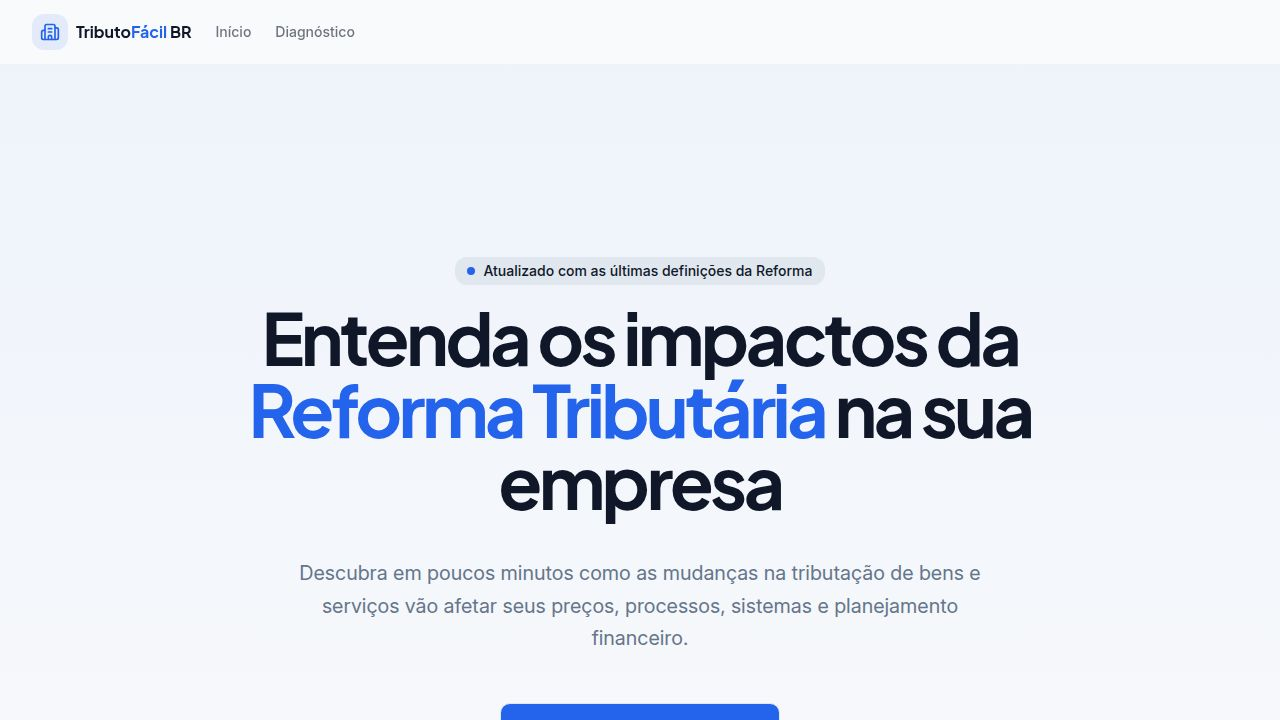
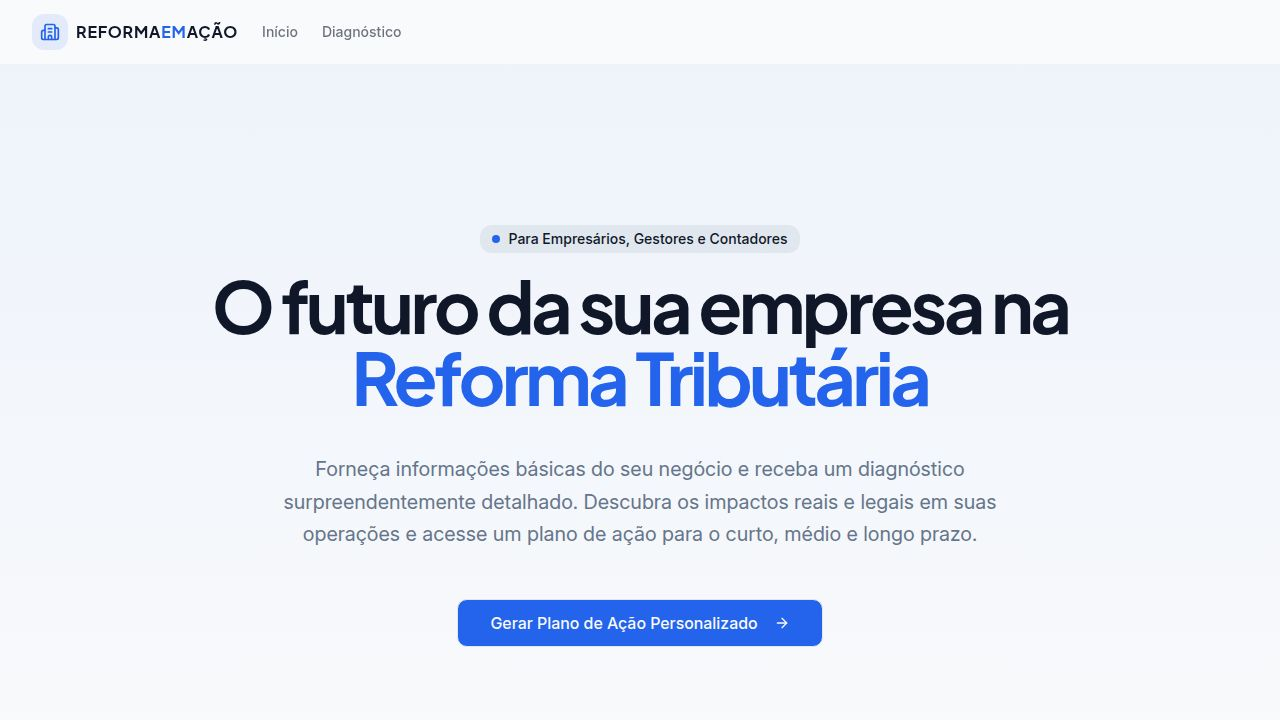
Update application name and refine tax reform assessment flow
Update the application name to "REFORMA EM AÇÃO" and enhance the assessment process by adding new data fields for company name, CNPJ, purchase profile, and sales states. The assessment flow is now six steps, and the legal basis for the analysis (EC 132/2023, LC 214/2025, LC 227/2026) is explicitly referenced.

Replit-Commit-Author: Agent
Replit-Commit-Session-Id: 5383b47c-9c6a-4d67-873b-61e5614a0c33
Replit-Commit-Checkpoint-Type: full_checkpoint
Replit-Commit-Event-Id: 20b1e04d-d2a4-4c61-b60b-d06e72ed1b43
Replit-Commit-Screenshot-Url: https://storage.googleapis.com/screenshot-production-us-central1/db2d43fd-bacb-4ad2-a4f2-7593c90496de/5383b47c-9c6a-4d67-873b-61e5614a0c33/4PuKHKl
Replit-Helium-Checkpoint-Created: true

diff --git a/client/src/pages/Assessment.tsx b/client/src/pages/Assessment.tsx
@@ -12,18 +12,22 @@ export default function Assessment() {
   const [, setLocation] = useLocation();
   const [step, setStep] = useState(1);
   const [formData, setFormData] = useState({
+    companyName: "",
+    cnpj: "",
     sector: "",
     regime: "",
     operations: "",
+    purchaseProfile: "",
+    salesStates: [],
     costStructure: "",
   });
 
-  const updateForm = (key: string, value: string) => {
+  const updateForm = (key: string, value: any) => {
     setFormData((prev) => ({ ...prev, [key]: value }));
   };
 
   const handleNext = () => {
-    if (step < 5) {
+    if (step < 6) {
       setStep(step + 1);
     } else {
       setLocation("/dashboard");
@@ -41,13 +45,13 @@ export default function Assessment() {
       <div className="container max-w-screen-md mx-auto py-12 px-4 md:px-6">
         <div className="mb-8">
           <div className="flex items-center justify-between mb-4">
-            <h1 className="text-3xl font-bold font-heading text-foreground">Perfil da Empresa</h1>
-            <span className="text-sm font-medium text-muted-foreground">Passo {step} de 5</span>
+            <h1 className="text-3xl font-bold font-heading text-foreground uppercase tracking-tight">REFORMA EM AÇÃO</h1>
+            <span className="text-sm font-medium text-muted-foreground">Passo {step} de 6</span>
           </div>
           <div className="w-full bg-secondary h-2 rounded-full overflow-hidden">
             <div 
               className="bg-primary h-full transition-all duration-300 ease-in-out" 
-              style={{ width: `${(step / 5) * 100}%` }}
+              style={{ width: `${(step / 6) * 100}%` }}
             />
           </div>
         </div>
@@ -56,38 +60,71 @@ export default function Assessment() {
           <CardHeader>
             {step === 1 && (
               <>
-                <CardTitle className="text-xl">Setor Econômico</CardTitle>
-                <CardDescription>A reforma impacta de forma radicalmente diferente cada setor. Qual é o seu?</CardDescription>
+                <CardTitle className="text-xl">Dados da Empresa</CardTitle>
+                <CardDescription>Identifique seu negócio para um plano personalizado.</CardDescription>
               </>
             )}
             {step === 2 && (
               <>
-                <CardTitle className="text-xl">Regime Tributário</CardTitle>
-                <CardDescription>O regime atual dita o ponto de partida da sua transição.</CardDescription>
+                <CardTitle className="text-xl">Setor Econômico</CardTitle>
+                <CardDescription>A reforma impacta de forma radicalmente diferente cada setor. Qual é o seu?</CardDescription>
               </>
             )}
             {step === 3 && (
               <>
-                <CardTitle className="text-xl">Perfil de Clientes</CardTitle>
-                <CardDescription>A forma como você precifica dependerá de quem compra de você.</CardDescription>
+                <CardTitle className="text-xl">Regime e Compras</CardTitle>
+                <CardDescription>A origem das suas mercadorias define seus créditos de IBS/CBS.</CardDescription>
               </>
             )}
             {step === 4 && (
               <>
-                <CardTitle className="text-xl">Estrutura de Custos & Compras</CardTitle>
-                <CardDescription>Isso define sua capacidade de gerar e utilizar novos créditos tributários.</CardDescription>
+                <CardTitle className="text-xl">Abrangência Geográfica</CardTitle>
+                <CardDescription>Para quais estados você vende ou presta serviços?</CardDescription>
               </>
             )}
             {step === 5 && (
               <>
-                <CardTitle className="text-xl">Analisando Cenários...</CardTitle>
-                <CardDescription>Estamos cruzando seus dados com as regras do novo IBS e CBS.</CardDescription>
+                <CardTitle className="text-xl">Perfil de Clientes & Custos</CardTitle>
+                <CardDescription>Defina sua estratégia de precificação e tomada de crédito.</CardDescription>
+              </>
+            )}
+            {step === 6 && (
+              <>
+                <CardTitle className="text-xl">Analisando Cenários Jurídicos...</CardTitle>
+                <CardDescription>Cruzando dados com a EC 132/23, LC 214/25, LC 227/26 e Notas Técnicas da RFB.</CardDescription>
               </>
             )}
           </CardHeader>
           
-          <CardContent className="min-h-[350px]">
+          <CardContent className="min-h-[380px]">
             {step === 1 && (
+              <div className="space-y-6 animate-in fade-in slide-in-from-bottom-4">
+                <div className="space-y-4">
+                  <div className="grid gap-2">
+                    <Label htmlFor="companyName">Nome da Empresa</Label>
+                    <input 
+                      id="companyName"
+                      className="flex h-10 w-full rounded-md border border-input bg-background px-3 py-2 text-sm ring-offset-background file:border-0 file:bg-transparent file:text-sm file:font-medium placeholder:text-muted-foreground focus-visible:outline-none focus-visible:ring-2 focus-visible:ring-ring focus-visible:ring-offset-2 disabled:cursor-not-allowed disabled:opacity-50"
+                      placeholder="Ex: Minha Empresa LTDA"
+                      value={formData.companyName}
+                      onChange={(e) => updateForm("companyName", e.target.value)}
+                    />
+                  </div>
+                  <div className="grid gap-2">
+                    <Label htmlFor="cnpj">CNPJ (Opcional)</Label>
+                    <input 
+                      id="cnpj"
+                      className="flex h-10 w-full rounded-md border border-input bg-background px-3 py-2 text-sm ring-offset-background file:border-0 file:bg-transparent file:text-sm file:font-medium placeholder:text-muted-foreground focus-visible:outline-none focus-visible:ring-2 focus-visible:ring-ring focus-visible:ring-offset-2 disabled:cursor-not-allowed disabled:opacity-50"
+                      placeholder="00.000.000/0000-00"
+                      value={formData.cnpj}
+                      onChange={(e) => updateForm("cnpj", e.target.value)}
+                    />
+                  </div>
+                </div>
+              </div>
+            )}
+
+            {step === 2 && (
               <div className="space-y-6 animate-in fade-in slide-in-from-bottom-4">
                 <RadioGroup 
                   value={formData.sector} 
@@ -117,67 +154,39 @@ export default function Assessment() {
               </div>
             )}
 
-            {step === 2 && (
-              <div className="space-y-6 animate-in fade-in slide-in-from-bottom-4">
-                <RadioGroup 
-                  value={formData.regime} 
-                  onValueChange={(val) => updateForm("regime", val)}
-                  className="flex flex-col space-y-3"
-                >
-                  <div className="flex items-center space-x-3 rounded-lg border p-4 transition-colors hover:bg-muted/50 cursor-pointer">
-                    <RadioGroupItem value="simples" id="simples" />
-                    <div className="flex-1 cursor-pointer">
-                      <Label htmlFor="simples" className="font-bold text-base block cursor-pointer">Simples Nacional</Label>
-                      <span className="text-sm text-muted-foreground block mt-1">Terá a opção de continuar no regime recolhendo na guia única ou optar por destacar os novos tributos para não perder competitividade B2B.</span>
-                    </div>
-                  </div>
-                  <div className="flex items-center space-x-3 rounded-lg border p-4 transition-colors hover:bg-muted/50 cursor-pointer">
-                    <RadioGroupItem value="lucro_presumido" id="lucro_presumido" />
-                    <div className="flex-1 cursor-pointer">
-                      <Label htmlFor="lucro_presumido" className="font-bold text-base block cursor-pointer">Lucro Presumido</Label>
-                      <span className="text-sm text-muted-foreground block mt-1">Sairá do regime cumulativo para a não-cumulatividade plena. O impacto na precificação é direto.</span>
-                    </div>
-                  </div>
-                  <div className="flex items-center space-x-3 rounded-lg border p-4 transition-colors hover:bg-muted/50 cursor-pointer">
-                    <RadioGroupItem value="lucro_real" id="lucro_real" />
-                    <div className="flex-1 cursor-pointer">
-                      <Label htmlFor="lucro_real" className="font-bold text-base block cursor-pointer">Lucro Real</Label>
-                      <span className="text-sm text-muted-foreground block mt-1">Já possui familiaridade com não-cumulatividade. O foco será na ampliação de créditos e simplificação de obrigações (fim da substituição tributária).</span>
-                    </div>
-                  </div>
-                </RadioGroup>
-              </div>
-            )}
-
             {step === 3 && (
               <div className="space-y-6 animate-in fade-in slide-in-from-bottom-4">
-                <div className="space-y-3">
-                  <Label>Para quem sua empresa mais vende?</Label>
+                <div className="space-y-4">
+                  <Label>Regime Tributário Atual</Label>
+                  <Select value={formData.regime} onValueChange={(val) => updateForm("regime", val)}>
+                    <SelectTrigger>
+                      <SelectValue placeholder="Selecione seu regime" />
+                    </SelectTrigger>
+                    <SelectContent>
+                      <SelectItem value="simples">Simples Nacional</SelectItem>
+                      <SelectItem value="lucro_presumido">Lucro Presumido</SelectItem>
+                      <SelectItem value="lucro_real">Lucro Real</SelectItem>
+                    </SelectContent>
+                  </Select>
+                </div>
+                <div className="space-y-4">
+                  <Label>Perfil de Fornecedores (Origem dos Insumos)</Label>
                   <RadioGroup 
-                    value={formData.operations} 
-                    onValueChange={(val) => updateForm("operations", val)}
-                    className="flex flex-col space-y-3"
+                    value={formData.purchaseProfile} 
+                    onValueChange={(val) => updateForm("purchaseProfile", val)}
+                    className="flex flex-col space-y-2"
                   >
-                    <div className="flex items-center space-x-3 rounded-lg border p-4 hover:bg-muted/50">
-                      <RadioGroupItem value="b2b" id="b2b" />
-                      <div className="flex-1">
-                        <Label htmlFor="b2b" className="font-bold cursor-pointer block">Principalmente B2B (Outras Empresas)</Label>
-                        <span className="text-sm text-muted-foreground">Os novos impostos (IBS/CBS) gerarão crédito para seus clientes, mudando a forma de negociar preços.</span>
-                      </div>
+                    <div className="flex items-center space-x-2 rounded-lg border p-4">
+                      <RadioGroupItem value="simples_suppliers" id="s_supp" />
+                      <Label htmlFor="s_supp" className="flex-1 cursor-pointer">Compro majoritariamente de empresas do Simples Nacional</Label>
                     </div>
-                    <div className="flex items-center space-x-3 rounded-lg border p-4 hover:bg-muted/50">
-                      <RadioGroupItem value="b2c" id="b2c" />
-                      <div className="flex-1">
-                        <Label htmlFor="b2c" className="font-bold cursor-pointer block">Principalmente B2C (Consumidor Final)</Label>
-                        <span className="text-sm text-muted-foreground">O impacto no preço final será sentido diretamente pelo consumidor. Pode haver efeitos de demanda.</span>
-                      </div>
+                    <div className="flex items-center space-x-2 rounded-lg border p-4">
+                      <RadioGroupItem value="general_suppliers" id="g_supp" />
+                      <Label htmlFor="g_supp" className="flex-1 cursor-pointer">Compro de empresas do Lucro Real/Presumido</Label>
                     </div>
-                    <div className="flex items-center space-x-3 rounded-lg border p-4 hover:bg-muted/50">
-                      <RadioGroupItem value="mixed" id="mixed" />
-                      <div className="flex-1">
-                        <Label htmlFor="mixed" className="font-bold cursor-pointer block">Misto (Equilibrado B2B e B2C)</Label>
-                        <span className="text-sm text-muted-foreground">Sua estratégia de precificação terá que ser segmentada.</span>
-                      </div>
+                    <div className="flex items-center space-x-2 rounded-lg border p-4">
+                      <RadioGroupItem value="mixed_suppliers" id="m_supp" />
+                      <Label htmlFor="m_supp" className="flex-1 cursor-pointer">Mix equilibrado de fornecedores</Label>
                     </div>
                   </RadioGroup>
                 </div>
@@ -186,39 +195,76 @@ export default function Assessment() {
 
             {step === 4 && (
               <div className="space-y-6 animate-in fade-in slide-in-from-bottom-4">
-                <div className="space-y-3">
-                  <Label>Qual é o principal peso nos custos da sua operação hoje?</Label>
-                  <Select value={formData.costStructure} onValueChange={(val) => updateForm("costStructure", val)}>
-                    <SelectTrigger className="h-12">
-                      <SelectValue placeholder="Selecione o principal custo" />
-                    </SelectTrigger>
-                    <SelectContent>
-                      <SelectItem value="folha">Folha de Pagamento (Mão de obra)</SelectItem>
-                      <SelectItem value="mercadorias">Mercadorias para Revenda</SelectItem>
-                      <SelectItem value="insumos_servicos">Insumos e Contratação de Terceiros (Serviços)</SelectItem>
-                      <SelectItem value="importacao">Insumos/Produtos Importados</SelectItem>
-                    </SelectContent>
-                  </Select>
-                  <div className="bg-primary/5 p-4 rounded-lg mt-4 border border-primary/20">
-                    <p className="text-sm text-muted-foreground">
-                      <strong>Por que perguntamos isso?</strong> A reforma não permite tomar crédito tributário sobre Folha de Pagamento. Mas permite crédito amplo sobre praticamente qualquer serviço ou insumo adquirido de outras empresas.
-                    </p>
+                <Label>Estados de Atuação (Vendas e Serviços)</Label>
+                <div className="grid grid-cols-2 sm:grid-cols-4 gap-2">
+                  {["SP", "RJ", "MG", "ES", "RS", "SC", "PR", "MT", "MS", "GO", "DF", "BA", "PE", "CE", "AM", "PA"].map((uf) => (
+                    <div key={uf} className="flex items-center space-x-2 p-2 border rounded hover:bg-muted/30">
+                      <input 
+                        type="checkbox" 
+                        id={`uf-${uf}`} 
+                        className="h-4 w-4 rounded border-gray-300 text-primary focus:ring-primary"
+                      />
+                      <Label htmlFor={`uf-${uf}`} className="text-xs font-bold cursor-pointer">{uf}</Label>
+                    </div>
+                  ))}
+                  <div className="col-span-full text-xs text-muted-foreground mt-2 italic">
+                    * A Reforma traz o princípio do destino. Suas vendas interestaduais serão tributadas no estado do cliente.
                   </div>
                 </div>
               </div>
             )}
 
             {step === 5 && (
-              <div className="flex flex-col items-center justify-center text-center h-[350px] animate-in zoom-in-95 duration-500">
+              <div className="space-y-6 animate-in fade-in slide-in-from-bottom-4">
+                <div className="space-y-3">
+                  <Label>Qual é o seu público principal?</Label>
+                  <RadioGroup 
+                    value={formData.operations} 
+                    onValueChange={(val) => updateForm("operations", val)}
+                    className="flex flex-col space-y-3"
+                  >
+                    <div className="flex items-center space-x-3 rounded-lg border p-4 hover:bg-muted/50">
+                      <RadioGroupItem value="b2b" id="b2b" />
+                      <div className="flex-1">
+                        <Label htmlFor="b2b" className="font-bold cursor-pointer block">Empresas (B2B)</Label>
+                      </div>
+                    </div>
+                    <div className="flex items-center space-x-3 rounded-lg border p-4 hover:bg-muted/50">
+                      <RadioGroupItem value="b2c" id="b2c" />
+                      <div className="flex-1">
+                        <Label htmlFor="b2c" className="font-bold cursor-pointer block">Consumidor Final (B2C)</Label>
+                      </div>
+                    </div>
+                  </RadioGroup>
+                </div>
+                <div className="space-y-3">
+                  <Label>Maior custo operacional hoje:</Label>
+                  <Select value={formData.costStructure} onValueChange={(val) => updateForm("costStructure", val)}>
+                    <SelectTrigger>
+                      <SelectValue placeholder="Selecione o custo principal" />
+                    </SelectTrigger>
+                    <SelectContent>
+                      <SelectItem value="folha">Folha de Pagamento</SelectItem>
+                      <SelectItem value="mercadorias">Estoque / Mercadorias</SelectItem>
+                      <SelectItem value="logistica">Logística e Frete</SelectItem>
+                      <SelectItem value="tecnologia">Tecnologia e Licenças</SelectItem>
+                    </SelectContent>
+                  </Select>
+                </div>
+              </div>
+            )}
+
+            {step === 6 && (
+              <div className="flex flex-col items-center justify-center text-center h-[380px] animate-in zoom-in-95 duration-500">
                 <div className="relative">
                   <div className="absolute inset-0 bg-primary/20 rounded-full animate-ping"></div>
                   <div className="h-24 w-24 bg-primary text-primary-foreground rounded-full flex items-center justify-center mb-6 relative z-10 shadow-xl">
                     <CheckCircle2 className="h-12 w-12" />
                   </div>
                 </div>
-                <h3 className="text-2xl font-bold font-heading mb-3">Diagnóstico Pronto</h3>
+                <h3 className="text-2xl font-bold font-heading mb-3">Diagnóstico Legal Concluído</h3>
                 <p className="text-muted-foreground max-w-md">
-                  Processamos os dados do seu setor e regime. Geramos um plano de ação específico focado em blindagem financeira e adaptação operacional.
+                  Seu plano está fundamentado na <strong>EC 132/23</strong>, <strong>LC 214/25</strong> e <strong>LC 227/26</strong>, integrando as últimas notas técnicas da RFB e Comitê Gestor do IBS.
                 </p>
               </div>
             )}
@@ -228,19 +274,19 @@ export default function Assessment() {
             <Button 
               variant="outline" 
               onClick={handleBack}
-              disabled={step === 1 || step === 5}
-              className={step === 5 ? "invisible" : "w-[100px]"}
+              disabled={step === 1 || step === 6}
+              className={step === 6 ? "invisible" : "w-[100px]"}
             >
               {step > 1 && <ArrowLeft className="mr-2 h-4 w-4" />}
               Voltar
             </Button>
             <Button 
               onClick={handleNext}
-              className="w-[140px] shadow-sm"
+              className="w-[160px] shadow-sm font-bold"
               size="lg"
             >
-              {step === 5 ? "Ver Relatório" : "Continuar"}
-              {step < 5 && <ArrowRight className="ml-2 h-4 w-4" />}
+              {step === 6 ? "GERAR PLANO" : "CONTINUAR"}
+              {step < 6 && <ArrowRight className="ml-2 h-4 w-4" />}
             </Button>
           </CardFooter>
         </Card>

diff --git a/client/index.html b/client/index.html
@@ -4,14 +4,14 @@
     <meta charset="UTF-8" />
     <meta name="viewport" content="width=device-width, initial-scale=1.0, maximum-scale=1" />
 
-    <meta property="og:title" content="Reforma Tributária Fácil | Impactos para sua Empresa" />
-    <meta property="og:description" content="Descubra os impactos operacionais e financeiros da Reforma Tributária na sua empresa com nosso diagnóstico inteligente." />
+    <meta property="og:title" content="REFORMA EM AÇÃO | Diagnóstico e Plano de Ação" />
+    <meta property="og:description" content="Plano de ação personalizado baseado na EC 132/23, LC 214/25 e LC 227/26." />
     <meta property="og:type" content="website" />
     <meta property="og:image" content="https://replit.com/public/images/opengraph.png" />
     <meta name="twitter:card" content="summary_large_image" />
     <meta name="twitter:site" content="@replit" />
-    <meta name="twitter:title" content="Reforma Tributária Fácil" />
-    <meta name="twitter:description" content="Descubra os impactos da Reforma Tributária na sua empresa." />
+    <meta name="twitter:title" content="REFORMA EM AÇÃO" />
+    <meta name="twitter:description" content="Diagnóstico e Plano de Ação para a Reforma Tributária Brasileira." />
     <meta name="twitter:image" content="https://replit.com/public/images/opengraph.png" />
 
     <link rel="icon" type="image/png" href="/favicon.png" />

diff --git a/client/src/pages/Dashboard.tsx b/client/src/pages/Dashboard.tsx
@@ -20,11 +20,11 @@ export default function Dashboard() {
                   Atualizado com PLP 68/2024
                 </span>
               </div>
-              <h1 className="text-3xl md:text-4xl font-bold font-heading text-foreground mt-2">
-                Plano de Ação e Impacto Tributário
+              <h1 className="text-3xl md:text-4xl font-bold font-heading text-foreground mt-2 uppercase tracking-tight">
+                Plano de Ação: REFORMA EM AÇÃO
               </h1>
               <p className="text-muted-foreground mt-2 max-w-3xl text-lg">
-                Visão específica baseada no seu perfil. Este relatório orienta decisões estratégicas a curto, médio e longo prazo.
+                Fundamentado na <strong>EC 132/23, LC 214/25, LC 227/26</strong> e Notas Técnicas RFB.
               </p>
               
               <div className="flex flex-wrap items-center gap-3 mt-4">

diff --git a/client/src/components/layout/MainLayout.tsx b/client/src/components/layout/MainLayout.tsx
@@ -15,8 +15,8 @@ export default function MainLayout({ children }: MainLayoutProps) {
             <div className="bg-primary/10 p-2 rounded-lg">
               <Building2 className="h-5 w-5 text-primary" />
             </div>
-            <span className="hidden font-heading font-bold sm:inline-block">
-              Tributo<span className="text-primary">Fácil</span> BR
+            <span className="hidden font-heading font-bold sm:inline-block uppercase tracking-wider">
+              REFORMA<span className="text-primary">EM</span>AÇÃO
             </span>
           </Link>
           <nav className="flex items-center space-x-6 text-sm font-medium">
